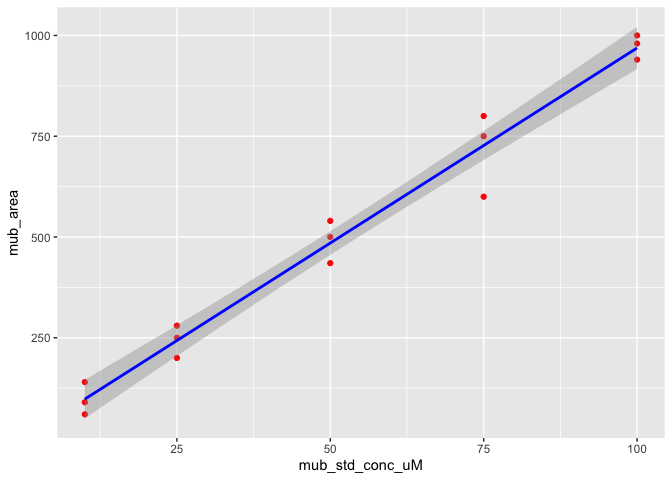
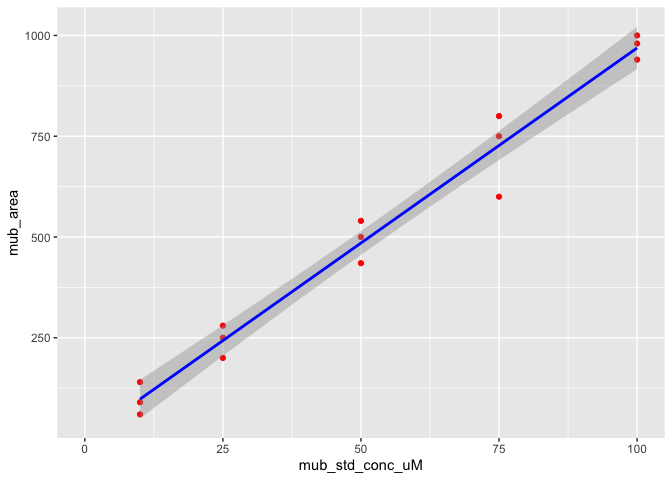
Rendering .md

diff --git a/hmk/hmk_04/hmk_04.md b/hmk/hmk_04/hmk_04.md
@@ -159,13 +159,17 @@ ggplot(data = stdcurve_3, aes(x = mub_std_conc_uM, y = mub_area)) + geom_point(c
 
 ![](hmk_04_files/figure-gfm/unnamed-chunk-11-1.png)
 
+“xlim” sets the limits of the x axis to the described range of (0, 100)
+
 “se” in geom_smooth stands for standard error, and if this value was set
 to true, we could see a grey hue indicating the confidence interval of
 this line.
 
 ``` r
-ggplot(data = stdcurve_3, aes(x = mub_std_conc_uM, y = mub_area)) + geom_point(color = 'red') +
-  geom_smooth(method = "lm", se = TRUE, color = 'blue')
+ggplot(data = stdcurve_3, aes(x = mub_std_conc_uM, y = mub_area)) + 
+  geom_point(color = 'red') + 
+  xlim(c(0, 100)) +
+  geom_smooth(method = "lm", se = TRUE, color = 'blue') 
 ```
 
     `geom_smooth()` using formula 'y ~ x'
